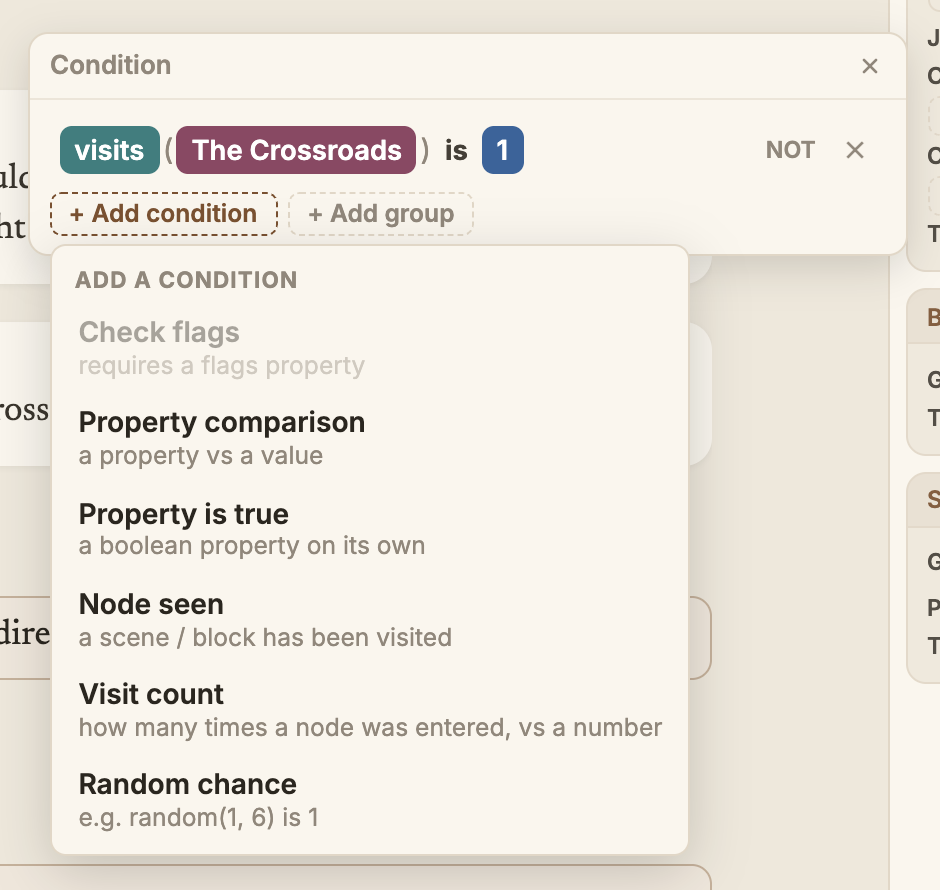
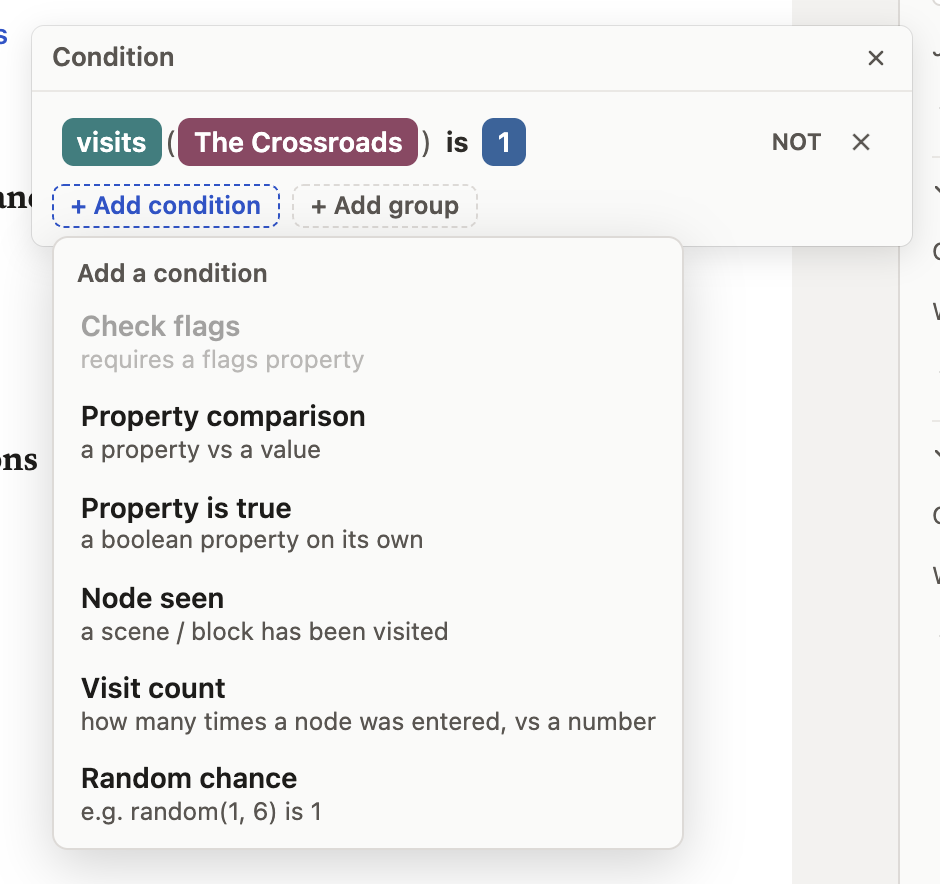
Patterpad: a jump into a scene not yet opened lands on its line; site screenshots retaken in the light palette, with alt text and stale labels brought up to date

diff --git a/packages/patterpad-surface/web/settle-reveal.ts b/packages/patterpad-surface/web/settle-reveal.ts
@@ -1,0 +1,70 @@
+// ---------------------------------------------------------------------------
+// A reveal that lands where it meant to. The page's blocks use `content-visibility: auto`, so a block that has
+// never been drawn is laid out at an estimated height (`contain-intrinsic-block-size`) until it is. Centring a
+// node straight after a scene loads aims at a page made of estimates; as the blocks above it draw at their
+// real heights, the node moves, and the scroll ends somewhere else (the resolver's Edit, a search hit or a
+// problem on a scene's first load, the October 2026 live check). Once a block has been drawn its real height
+// is remembered, which is why a second jump always landed.
+//
+// So after the first scroll, watch where the node actually is, and once scrolling has stopped, centre it again
+// if it has drifted. A few passes settle it; the watch gives up if the author moves on (the caret leaves the
+// node) or after a short budget, so it never fights a scroll the author starts.
+// ---------------------------------------------------------------------------
+
+/** How far from the viewport's centre a revealed node may sit (as a share of the viewport's height) before it
+ *  counts as drifted. */
+const DRIFT = 0.25;
+/** Re-centring passes before giving up. */
+const MAX_PASSES = 4;
+/** The longest the watch runs, in milliseconds. */
+const BUDGET_MS = 1500;
+
+/** The nearest ancestor that scrolls, or the document's scrolling element. */
+function scroller(el: HTMLElement): HTMLElement {
+  for (let p = el.parentElement; p; p = p.parentElement) {
+    const o = getComputedStyle(p).overflowY;
+    if ((o === "auto" || o === "scroll") && p.scrollHeight > p.clientHeight) return p;
+  }
+  return (document.scrollingElement as HTMLElement | null) ?? document.documentElement;
+}
+
+/** Whether `el` sits near the middle of its scroller's visible area. */
+export function nearCentre(el: HTMLElement, box: HTMLElement): boolean {
+  const r = el.getBoundingClientRect();
+  const v = box === document.scrollingElement || box === document.documentElement
+    ? { top: 0, height: window.innerHeight }
+    : (() => { const b = box.getBoundingClientRect(); return { top: b.top, height: b.height }; })();
+  if (v.height <= 0) return true;
+  const mid = r.top + Math.min(r.height, v.height) / 2;
+  return Math.abs(mid - (v.top + v.height / 2)) <= v.height * DRIFT;
+}
+
+/**
+ * Keep centring `el` until it stays put. Call it straight after the first `scrollIntoView`. `stillWanted`
+ * says whether the reveal still matters (false once the author has moved the caret elsewhere); `frame` and
+ * `now` are injectable for tests.
+ */
+export function settleReveal(
+  el: HTMLElement,
+  stillWanted: () => boolean,
+  frame: (fn: () => void) => void = (fn) => { requestAnimationFrame(fn); },
+  now: () => number = () => performance.now(),
+): void {
+  const box = scroller(el);
+  const start = now();
+  let passes = 0;
+  let lastTop = box.scrollTop;
+  let still = 0;
+  const tick = (): void => {
+    if (!el.isConnected || !stillWanted() || now() - start > BUDGET_MS) return;
+    // Wait for the scroll (a smooth one included) to stop: two frames at the same position.
+    if (box.scrollTop !== lastTop) { lastTop = box.scrollTop; still = 0; frame(tick); return; }
+    if (++still < 2) { frame(tick); return; }
+    if (nearCentre(el, box)) return;
+    if (++passes > MAX_PASSES) return;
+    el.scrollIntoView({ block: "center", behavior: "auto" });
+    lastTop = box.scrollTop; still = 0;
+    frame(tick);
+  };
+  frame(tick);
+}

diff --git a/packages/patterpad-surface/web/settle-reveal.test.ts b/packages/patterpad-surface/web/settle-reveal.test.ts
@@ -1,0 +1,75 @@
+// @vitest-environment jsdom
+// A reveal on a scene's first load lands where it meant to (settle-reveal.ts). jsdom lays nothing out, so the
+// page is faked: a scroller whose node sits at a position the test controls. The first scroll aims at the
+// estimated page; then the blocks above "draw" taller and push the node down, as content-visibility's real
+// heights do. The settle pass must centre it again; a reveal the author has moved on from must be left alone.
+import { describe, it, expect } from "vitest";
+import { settleReveal, nearCentre } from "./settle-reveal.js";
+
+/** A 600px-high scroller holding a node whose page offset is `nodeAt`; scrollIntoView centres it. */
+function page(nodeAt: { y: number }) {
+  const box = document.createElement("div");
+  Object.defineProperty(box, "clientHeight", { value: 600 });
+  Object.defineProperty(box, "scrollHeight", { value: 10000 });
+  box.style.overflowY = "auto";
+  box.getBoundingClientRect = () => ({ top: 0, height: 600, bottom: 600, left: 0, right: 800, width: 800, x: 0, y: 0, toJSON: () => ({}) });
+  const node = document.createElement("p");
+  box.append(node);
+  document.body.append(box);
+  let scrolls = 0;
+  node.getBoundingClientRect = () => {
+    const top = nodeAt.y - box.scrollTop;
+    return { top, height: 40, bottom: top + 40, left: 0, right: 800, width: 800, x: 0, y: top, toJSON: () => ({}) };
+  };
+  node.scrollIntoView = () => { scrolls++; box.scrollTop = Math.max(0, nodeAt.y - 280); };
+  return { box, node, scrolls: () => scrolls };
+}
+
+/** Run queued frames until none are left (bounded), with a clock that moves 16ms a frame. */
+function frames() {
+  const queue: Array<() => void> = [];
+  let t = 0;
+  return {
+    frame: (fn: () => void) => { queue.push(fn); },
+    now: () => t,
+    run: (beforeEach?: (n: number) => void) => {
+      for (let n = 0; queue.length && n < 200; n++) { beforeEach?.(n); t += 16; queue.shift()!(); }
+    },
+  };
+}
+
+describe("settling a reveal", () => {
+  it("centres the node again once the page above it has drawn at its real height", () => {
+    const at = { y: 3000 };
+    const { box, node, scrolls } = page(at);
+    node.scrollIntoView();                       // the first scroll, aimed at the estimated page
+    expect(nearCentre(node, box)).toBe(true);
+    const f = frames();
+    settleReveal(node, () => true, f.frame, f.now);
+    f.run((n) => { if (n === 0) at.y = 4800; }); // the blocks above draw taller: the node moves down
+    expect(scrolls()).toBe(2);
+    expect(nearCentre(node, box)).toBe(true);
+  });
+
+  it("leaves a reveal that landed alone", () => {
+    const at = { y: 3000 };
+    const { node, scrolls } = page(at);
+    node.scrollIntoView();
+    const f = frames();
+    settleReveal(node, () => true, f.frame, f.now);
+    f.run();
+    expect(scrolls()).toBe(1);
+  });
+
+  it("gives up once the author has moved on", () => {
+    const at = { y: 3000 };
+    const { box, node, scrolls } = page(at);
+    node.scrollIntoView();
+    const f = frames();
+    let wanted = true;
+    settleReveal(node, () => wanted, f.frame, f.now);
+    f.run((n) => { if (n === 0) { at.y = 4800; wanted = false; } });
+    expect(scrolls()).toBe(1);
+    expect(nearCentre(node, box)).toBe(false);
+  });
+});

diff --git a/packages/patterpad-surface/web/surface.ts b/packages/patterpad-surface/web/surface.ts
@@ -36,6 +36,7 @@ import { multiSelectState, multiSelectPositions } from "../src/multiselect.js";
 import { setSnippetJump, commitSlashJump } from "../src/special.js";
 import { openTargetPicker, closeTargetPicker, isTargetPickerOpen, type JumpData } from "./targetpicker.js";
 import { setPlayBlockHandler } from "./actionmenu.js";
+import { settleReveal } from "./settle-reveal.js";
 import { confirmDeleteBlock, confirmDeleteChunk, confirmDeleteSet } from "./confirm.js";
 import { modelIdOf, cueText, isChoiceGroup, findByModelId, findBeatById, optionPromptId, sayText as sayTextOf, sayStartOf, offCue, isBlankBeat, rawAttr, isZoneBeat } from "../src/zoneutil.js";
 import { patterSchema } from "../src/schema.js";
@@ -1319,7 +1320,13 @@ export function mountSurface(opts: MountOptions): SurfaceHandle {
       view.dispatch(view.state.tr.setSelection(sel));
       view.focus();
       const dom = view.nodeDOM(at);
-      if (dom instanceof HTMLElement) dom.scrollIntoView({ block: "center", behavior: opts?.instant ? "auto" : "smooth" });
+      if (dom instanceof HTMLElement) {
+        dom.scrollIntoView({ block: "center", behavior: opts?.instant ? "auto" : "smooth" });
+        // On a scene's first load the blocks above are still estimated heights: re-centre once they've drawn,
+        // for as long as the caret is still on what was revealed (settle-reveal.ts).
+        const wanted = view.state.selection;
+        settleReveal(dom, () => !destroyed && view.state.selection.eq(wanted));
+      }
       return true;
     },
     selectionContext: () => inspect(view.state),

diff --git a/website/src/content/docs/production/coverage-testing.md b/website/src/content/docs/production/coverage-testing.md
@@ -14,7 +14,7 @@ dead content before a player does.
 
 **Review ▸ Coverage Test…** (`Shift+Cmd+C`) opens a window that stays open while you edit, so you can act
 on what it finds. Up top: **Runs**, **Max steps**, **Seed** (the same seed replays the same
-run, for repeatable checks), and a **Start** scene. Press **Run test** for a table of every
+run, for repeatable checks), and a **Start** scene. Press **Run coverage** for a table of every
 line, text, and game event beat, showing how often each one came up.
 
 The story needs a **start point** for the test (and for **Play ▸ Play from Start**); if you
@@ -27,7 +27,7 @@ Click any row to jump the editor straight to that beat. The window can **pin** i
 ## Reading the results
 
 <figure class="doc-shot">
-  <img src="/doc-images/Coverage.png" alt="The Coverage window after 5,000 runs of the interactive tour: Runs, Max steps, Seed and Start boxes with a Run test button; headline figures of 100% beats reached, 60 of 60 covered, 0 never reached and 0 rarely reached; a line reading 4,704 reached the end, 0 stalled at a choice, 296 hit the step limit; a switch set to Least reached first; and a table with Runs reached and Times played columns, led by Darkness at 9% and a card turns over at 16 to 17%." />
+  <img src="/doc-images/Coverage.png" alt="The Coverage window after 5,000 runs of the interactive tour: Runs, Max steps, Seed and Start boxes with a Run coverage button and a Game scopes button; headline figures of 100% beats reached, 60 of 60 covered, 0 never reached and 0 rarely reached; a line reading 4,704 reached the end, 296 hit the step limit; a switch set to Least reached first; and a table with Runs reached and Times played columns, led by Darkness at 9% and a card turns over at 16 to 17%." />
   <figcaption>The Coverage window after 5,000 runs of the tour. Everything is reached, so the table leads with the least-reached beats: a branch's fallback at 9%, and each tarot card at around 16%, which is by design, since the test draws one card of several at random.</figcaption>
 </figure>
 
@@ -36,7 +36,7 @@ least once, and **Covered** is the same as a count. **Never reached** counts the
 played, and **Rarely reached** the beats that did play, but in fewer than 5% of runs.
 
 **How the runs ended.** Under the numbers, one line says how many runs **reached the end**, how
-many **stalled at a choice** with nothing to pick, and how many **hit the step limit** (still going
+many **stalled at a choice** with nothing to pick (left out when there are none), and how many **hit the step limit** (still going
 at **Max steps**, usually because the test kept wandering round a hub the player can return to).
 Runs that hit the step limit aren't a fault in themselves; a story with a loop always has some.
 

diff --git a/website/src/content/docs/patterpad/conditions-and-data.md b/website/src/content/docs/patterpad/conditions-and-data.md
@@ -24,7 +24,7 @@ tag. With no condition, the content always shows.
 
 <figure class="doc-shot">
   <img src="/doc-images/ConditionEditor.png" alt="The visual condition editor: one pill clause, visits(The Crossroads) is 1, with a NOT toggle beside it, and beneath it the Add a condition menu listing check flags, property comparison, property is true, node seen, visit count, and random chance." />
-  <figcaption>The visual expression editor. Each test is built from <strong>pills</strong> (a function or property, its values, a comparison) and combined with an and / or tree. <strong>Add a clause</strong> offers ready-made shapes, property comparison, node seen, visit count, random chance, so you never have to remember the syntax. Node names show as their titles (here <code>The Crossroads</code>).</figcaption>
+  <figcaption>The visual expression editor. Each test is built from <strong>pills</strong> (a function or property, its values, a comparison) and combined with an and / or tree. <strong>+ Add condition</strong> offers ready-made shapes, property comparison, node seen, visit count, random chance, so you never have to remember the syntax. Node names show as their titles (here <code>The Crossroads</code>).</figcaption>
 </figure>
 
 Conditions read the **properties** you've set up (below) and built-ins like `seen()`

diff --git a/website/src/content/docs/patterpad/overview.md b/website/src/content/docs/patterpad/overview.md
@@ -113,7 +113,7 @@ in the pack too (see [the game's shared scopes travel too](/setup/building-and-s
 ## The workspace
 
 <figure class="doc-shot">
-  <img src="/doc-images/ThreeColumns.png" alt="The Patterpad workspace: a navigator on the left holding a Properties page and the scene list with its blocks, the script surface in the centre showing dialogue snippets for The Patter Tour, and the Inspector on the right showing the selected line's writing status, audio status and character. Back and forward arrows sit in the top bar." />
+  <img src="/doc-images/ThreeColumns.png" alt="The Patterpad workspace: a navigator on the left holding a Properties page and the scene list with its blocks, the script surface in the centre showing dialogue snippets for The Patter Tour, and the Inspector on the right showing the selected line's writing status, audio status, and character, with its snippet, block, and scene below. Back and forward arrows sit in the top bar." />
   <figcaption>The three-column workspace: the navigator (left, with the Properties page above the scenes), the script surface (centre), and the Inspector (right). The script stays put; the side panes are guests you toggle with <code>⌘1</code> and <code>⌘2</code>.</figcaption>
 </figure>
 

diff --git a/website/src/content/docs/search.md b/website/src/content/docs/search.md
@@ -18,7 +18,7 @@ and the **pin** button keeps it on top. Close it with **✕** or **Escape**.
 ## Finding a line
 
 <figure class="doc-shot">
-  <img src="/doc-images/SearchWindow.png" alt="The floating search window over a dimmed editor: tabs for Text, Replace, Writing, Recording, Property and Tags, a query box holding choice, and a ranked list of Beat and Block results each showing its scene path and internal id." />
+  <img src="/doc-images/SearchWindow.png" alt="The floating search window: tabs for Text, Replace, Writing, Recording, Property, Field, Tags, Qualifier, and Suggestions, a query box holding choice, and a ranked list of Beat and Block results each showing its scene path and internal id." />
   <figcaption>The floating search window. Tabs across the top switch modes, Text, Replace, Writing, Recording, Property, Field, Tags, Qualifier, and Suggestions; each result shows its kind, its scene path, and its internal id, so a match is never ambiguous. <code>↑ / ↓</code> move, <code>Enter</code> jumps, and you can drag the bar to reposition the window.</figcaption>
 </figure>
 

diff --git a/website/src/content/docs/patterpad/projects-and-settings.md b/website/src/content/docs/patterpad/projects-and-settings.md
@@ -10,7 +10,7 @@ sidebar:
 **File ▸ Project Settings…** (`⌘,`) opens a tabbed dialog.
 
 <figure class="doc-shot">
-  <img src="/doc-images/ProjectSettings.png" alt="The Project settings dialog: a grouped tab list on the left (Project, Story data, Writing and audio, Localisation) with the Recording status tab open, showing a Track audio status switch, an audio root folder, a ladder of recording-status folders, and Use Audio Folders and scratch-recording options." />
+  <img src="/doc-images/ProjectSettings.png" alt="The Project settings dialog: a grouped tab list on the left (Project, Story data, Writing and audio, Localisation) with the Recording status tab open, showing a Track audio status checkbox, an audio root folder, a ladder of recording-status folders, and Use Audio Folders and scratch-recording options." />
   <figcaption>Project settings, with tabs grouped down the left (Project / Story data / Writing &amp; audio / Localisation). The <strong>Recording status</strong> tab is shown here, mapping each recording stage to a folder on disk.</figcaption>
 </figure>
 

diff --git a/website/src/content/docs/writing-status.md b/website/src/content/docs/writing-status.md
@@ -56,7 +56,7 @@ Status** for a small **colour badge in the left gutter** beside each line, tinte
 optional overview: flip it off for a clean page again, and it hides itself in **Writing View**.
 
 <figure class="doc-shot">
-  <img src="/doc-images/StatusPills.png" alt="The writing surface with coloured status badges (stub, edited, final) in the left gutter beside each snippet, and the inspector on the right showing a Writing dropdown set to stub." />
+  <img src="/doc-images/StatusPills.png" alt="The writing surface with coloured status badges (stub, edited, final, draft 1) in the left gutter beside each line, and the inspector on the right showing a Writing dropdown set to stub." />
   <figcaption>Line status in the script. Coloured badges in the left gutter (<code>stub</code>, <code>edited</code>, <code>final</code>) tint each line by its stage, while the inspector's <strong>Writing</strong> dropdown (top right) sets the status for the selected beat.</figcaption>
 </figure>
 

diff --git a/website/src/content/docs/play/live-debug.md b/website/src/content/docs/play/live-debug.md
@@ -30,7 +30,7 @@ The link is controlled by a small **connect icon** in the **bottom-right corner*
 by the **Play ▸ Live Link** menu item, which is ticked while the link is on).
 
 <figure class="doc-shot is-inset">
-  <img src="/doc-images/LiveDebugLink.png" alt="The live-link chip in the editor's bottom-right corner: the loopback address ws://127.0.0.1:4471 beside an amber connect icon, with a tooltip reading Live link is listening for a game. Click to stop." />
+  <img src="/doc-images/LiveDebugLink.png" alt="The Live Link chip in the editor's bottom-right corner: the Live Link label and the loopback address ws://127.0.0.1:4471 beside an amber connect icon, with a tooltip reading Live Link is listening for a game. Click to stop." />
   <figcaption>The connect icon, amber and listening. The loopback address <code>ws://127.0.0.1:4471</code> sits beside it (click to copy); hovering spells out the state.</figcaption>
 </figure>
 

diff --git a/packages/patterpad/CHANGELOG.md b/packages/patterpad/CHANGELOG.md
@@ -158,6 +158,9 @@ pipeline, separate from the Patterplay runtimes' lockstep version).
 
 ### Fixed
 
+- **A jump into a scene you haven't opened yet lands on its line.** Edit in the clash resolver, a search result,
+  or a problem in a scene opened for the first time that session could stop part-way down the page, because
+  the blocks above hadn't been drawn yet. It now settles on the line.
 - **Status badges and Settings' buttons aren't cut off in a small window.** With Review ▸ Line Status on, the
   pills beside the lines were cut off at the editor's left edge in a narrow window; the margin now makes room
   for the widest one showing. A long status name in the inspector ends in an ellipsis instead of running past
